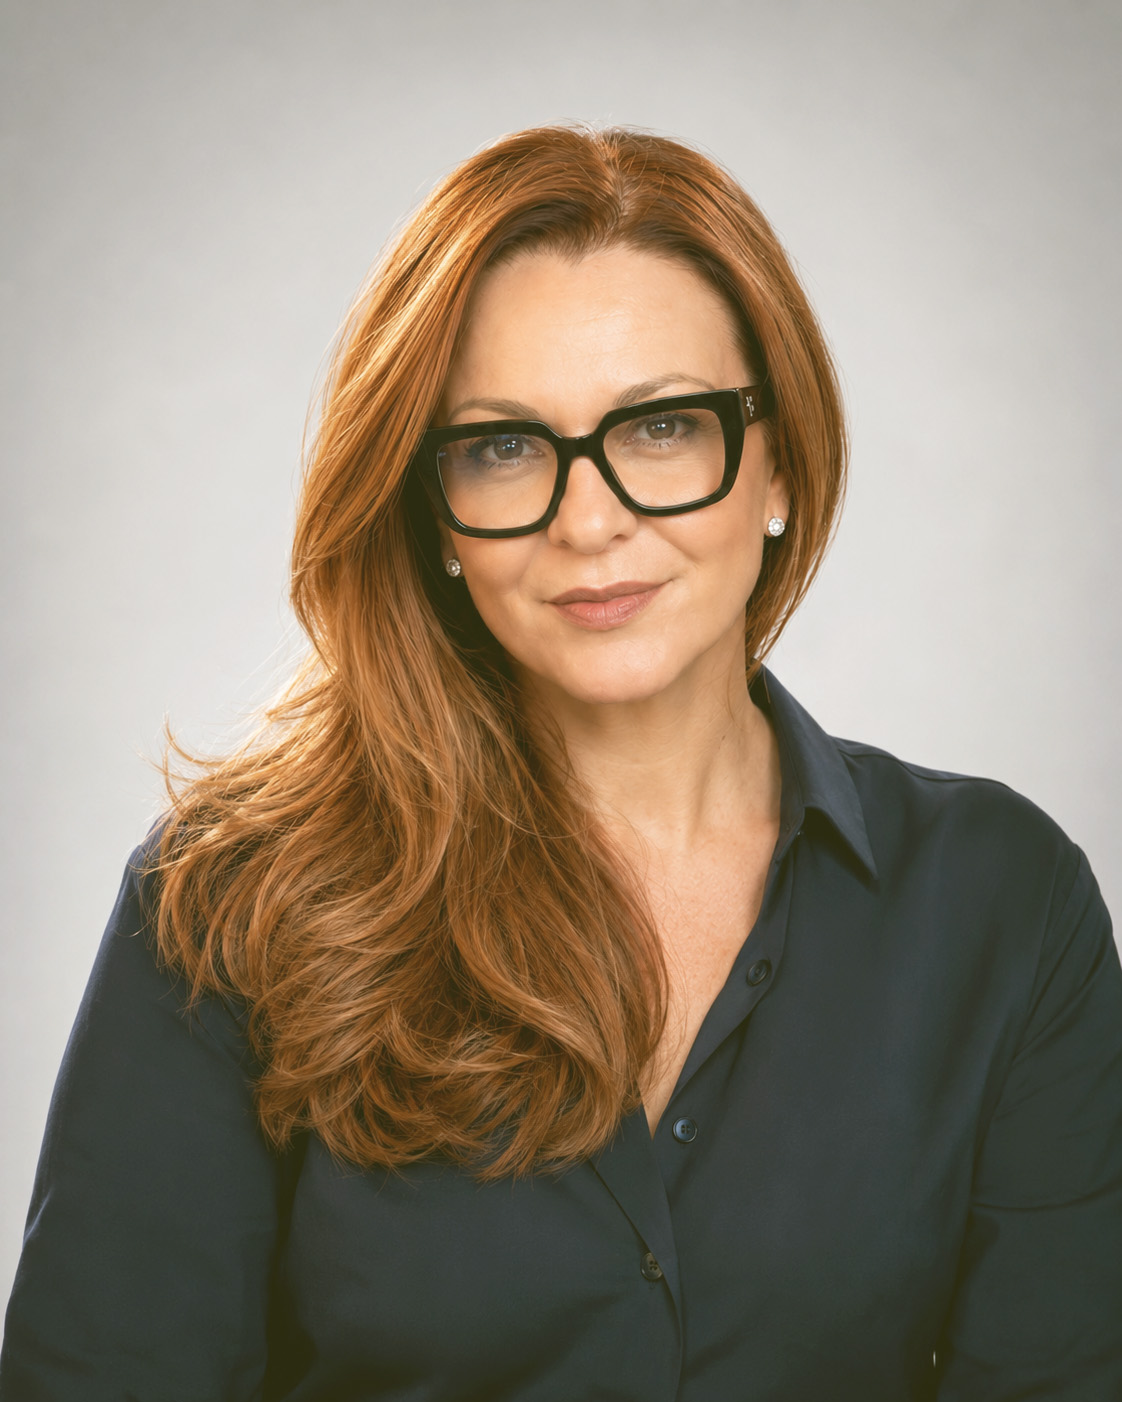
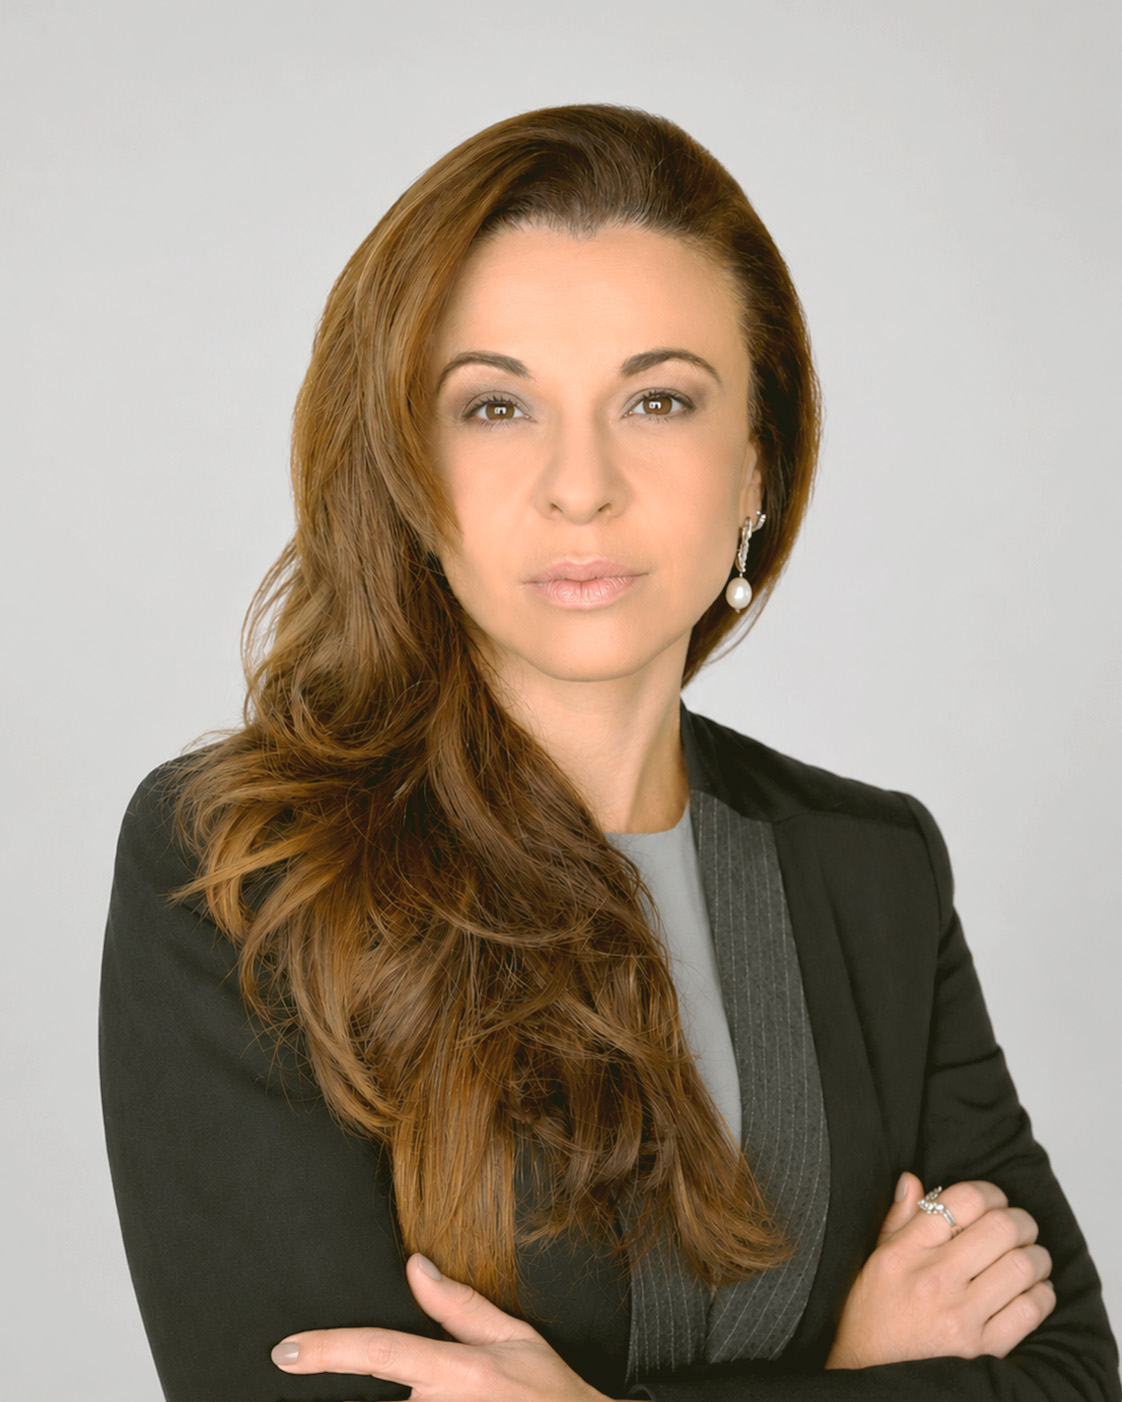
adicionando novos membros

diff --git a/src/app/sobre/equipe/page.tsx b/src/app/sobre/equipe/page.tsx
@@ -15,7 +15,9 @@ import ContactBanner from '@/components/ContactBanner'
 import portrait from '@/assets/img/patricia.jpg'
 import claudia from '@/assets/img/team/claudia.png'
 import andre from '@/assets/img/team/andre.png'
-import pessoa from '@/assets/img/team/pessoa.png'
+import luciani from '@/assets/img/team/luciani.png'
+import katlin from '@/assets/img/team/katlin.png'
+import phili from '@/assets/img/team/phili.png'
 
 export const metadata: Metadata = {
 	title: 'Equipe - Lideranças e comitê científico | Aether Global Pharma',
@@ -55,15 +57,52 @@ const realizacoes = [
 	'Liderança de operações e equipes industriais com mais de 200 profissionais em ambiente GMP'
 ]
 
-// PLACEHOLDER - nomes, titulações, instituições, bios e fotos do comitê são
-// TEMPORÁRIOS. A lista real depende do alinhamento jurídico da Patricia com
-// cada pesquisador (nome, titulação, área, instituição + autorização individual).
-const bioPlaceholder = 'Lorem ipsum dolor sit amet, consectetur adipiscing elit. Pesquisador(a) com atuação em desenvolvimento e validação de tecnologias em saúde. Nome, titulação e instituição a confirmar com o cliente.'
-
 const comite = [
-	{ name: 'Claudia Ramos', titulacao: 'PhD', area: 'Química Medicinal', instituicao: 'Instituição a confirmar', bio: bioPlaceholder, photo: claudia },
-	{ name: 'André Chaia', titulacao: 'PhD', area: 'Farmacologia', instituicao: 'Instituição a confirmar', bio: bioPlaceholder, photo: andre },
-	{ name: 'Nome a confirmar', titulacao: 'PhD', area: 'Biotecnologia', instituicao: 'Instituição a confirmar', bio: bioPlaceholder, photo: pessoa }
+	{
+		name: 'Claudia Ramos',
+		titulacao: '',
+		area: 'Scientific Advisor',
+		instituicao: '',
+		bio: 'Acredita que a inovação em saúde somente alcança impacto real quando ciência, regulação e estratégia caminham de forma integrada.<br /><br />Farmacêutica Bioquímica com mais de 20 anos de atuação em Assuntos Regulatórios e Vigilância Sanitária, desenvolveu sua trajetória em instituições como ANVISA, Organização Pan-Americana da Saúde (OPAS), Fundação para o Desenvolvimento Científico e Tecnológico em Saúde (FIOTEC), Ministério da Saúde e consultoria especializada para a indústria farmacêutica. Sua experiência concentra-se na produção de inteligência regulatória, elaboração de pareceres técnico-científicos, interpretação de marcos regulatórios, avaliação de processos administrativos e estruturação de documentos que subsidiam decisões estratégicas em ambientes regulatórios complexos. Ao longo da carreira, participou da consolidação de entendimentos regulatórios, da sistematização de conhecimento institucional e do desenvolvimento de análises técnicas envolvendo medicamentos, produtos para saúde, cosméticos, saneantes e alimentos, além de planejamento regulatório e estratégico para precificação de medicamentos novos junto à CMED (Câmara de Regulação do Mercado de Medicamentos). Tem especial interesse em iniciativas voltadas à maturação tecnológica de ativos farmacêuticos, governança científica, avaliação regulatória de tecnologias inovadoras, inteligência regulatória aplicada à inovação e construção de estratégias que aproximem universidades, centros de pesquisa, setor produtivo e autoridades sanitárias. Defende que a previsibilidade regulatória constitui um dos principais fatores para reduzir riscos tecnológicos, acelerar o desenvolvimento de ativos inovadores e ampliar as oportunidades de transferência de tecnologia.',
+		photo: claudia,
+		linked: 'https://www.linkedin.com/in/claudia-s-ramos-santos-4a9937a8/'
+	},
+	{
+		name: 'André Adriano Chaia',
+		titulacao: '',
+		area: 'Scientific Advisor',
+		instituicao: '',
+		bio: 'Farmacêutico e mestre em Microbiologia, construiu uma trajetória de mais de 26 anos dedicada a transformar complexidade regulatória em vantagem competitiva para a indústria de life sciences. Sua carreira ganhou contornos decisivos durante quase uma década na ANVISA, onde atuou como Consultor Técnico Especializado, analisando dossiês de registro, renovação e pós-registro de medicamentos novos, genéricos e similares, avaliando segurança e eficácia, e participando da elaboração e acompanhamento de novas legislações.<br /><br />Sua atuação multissetorial - indústria, consultoria, ANVISA, ICT e ambiente acadêmico - permite uma visão 360° do ciclo de vida regulatório. Como professor universitário por mais de 10 anos, formou profissionais com mentalidade crítica e alinhada às melhores práticas de qualidade, segurança e conformidade. Em paralelo, no ICT, atua para aproximar pesquisa científica, investimentos e estratégia regulatória, ajudando projetos em estágios iniciais a atravessarem o "vale da morte" da inovação e a evoluírem até se tornarem produtos e patentes com real potencial de mercado.<br /><br />Hoje, atua como parceiro estratégico para empresas que buscam navegar com segurança em um ambiente regulatório exigente, sem perder competitividade. Combina experiência adquirida na ANVISA, histórico robusto de registros bem-sucedidos e vivência em auditorias regulatórias para desenhar caminhos normativos sólidos, encurtar prazos, prevenir retrabalhos e sustentar decisões de alto impacto em portfólios farmacêuticos complexos. Seu compromisso é usar a inteligência regulatória como alavanca de negócios, destravando oportunidades e agregando valor tangível a cada projeto.',
+		photo: andre,
+		linked: 'https://www.linkedin.com/in/andr%C3%A9-adriano-chaia-a94a343a/'
+	},
+	{
+		name: 'Luciani Fagotti',
+		titulacao: '',
+		area: 'Scientific Advisor',
+		instituicao: '',
+		bio: 'Profissional com sólida experiência em Assuntos Regulatórios e Garantia da Qualidade, atua na elaboração, implementação e execução de treinamentos e procedimentos regulatórios e de qualidade.<br /><br />É fundadora da Vigidoc, empresa especializada em assessoria regulatória e qualidade para negócios que atuam em mercados regulados. Tem experiência na regularização de empresas em início de atividade, incluindo a obtenção de licenças e registros junto às autoridades sanitárias. Atua em registro de produtos perante a ANVISA, apoiando empresas no cumprimento dos requisitos regulatórios e na manutenção da conformidade ao longo do ciclo de vida dos produtos.',
+		photo: luciani,
+		linked: 'https://www.linkedin.com/in/lucianifagotti/'
+	},
+	{
+		name: 'Katlin B. Massirer',
+		titulacao: 'PhD',
+		area: 'Coordenadora CQMED',
+		instituicao: 'CQMED',
+		bio: 'Coordenadora do Centro de Química Medicinal (CQMED-Unicamp), uma Unidade Embrapii de Inovação Industrial na área de Fármacos/Biofármacos, desde 2017. Pesquisadora da área de: proteínas de ligação a RNA em doenças, química medicinal, bioinformática, e proteínas recombinantes para diagnóstico. Tem mais de 15 anos de experiência em planejamento e execução de projetos de pesquisa e inovação, com 46 publicações internacionais de alto impacto. <br /><br />Atua na coordenação de projetos internacionais na área de splicing de RNA e química medicinal, com a University of Oxford, University of California San Diego, Tubingen University e o Structural Genomics Consortium (SGC) no Canadá. Em 2025 recebeu prêmio de pesquisadora destaque da Embrapii e em 2024 recebeu honraria como profissional de destaque em pesquisa na área de saúde pela Câmara Municipal de Campinas, SP. Atua como coordenadora adjunta do CBMEG e Coordenadora da CIBIO-CBMEG.',
+		photo: katlin,
+		linked: 'https://www.linkedin.com/in/katlin-massirer-86a0779/'
+	},
+	{
+		name: 'Ronaldo Pilli',
+		titulacao: 'PhD',
+		area: 'Coordenador Química',
+		instituicao: 'CQMED',
+		bio: 'Professor na Unicamp na área de Síntese Orgânica, com ênfase em síntese assimétrica, síntese de fármacos e produtos naturais, com avaliação de atividade biológica. Coordena a área de Química do CQMED-Unicamp. Possui pedidos de patente relacionados a métodos de preparação de princípios farmacêuticos, incluindo fenidato de metila, tamoxifeno, levobupivacaína e fluoxetina.<br /><br />Ocupou posições de destaque na gestão acadêmica e científica, como diretor do Instituto de Química e Pró-Reitor de Pesquisa da Unicamp, além de atuação em instâncias estratégicas de formulação de políticas científicas no CNPq e na FAPESP, incluindo a vice-presidência do Conselho Superior da FAPESP. <br /><br />É coautor do livro-texto Substâncias Carboniladas e Derivados, referência na área de Química Orgânica, com edição nacional e internacional em inglês. <br /><br />Recebeu importantes prêmios e honrarias nacionais e internacionais, como o Prêmio Zeferino Vaz (Unicamp), a Medalha Simão Mathias (SBQ), a Medalha Israel Vargas e o BMOS Award. É membro da Academia de Ciências do Estado de São Paulo e da Academia Brasileira de Ciências.',
+		photo: phili,
+		//linked: 'https://www.linkedin.com/in/katlin-massirer-86a0779/'
+	}
 ]
 
 export default function EquipePage() {
@@ -209,10 +248,6 @@ export default function EquipePage() {
 					</div>
 
 					<Committee members={comite} />
-
-					<p className='text-16 opacity-60 mt-10 lg:mt-12'>
-						Os nomes e perfis do comitê serão divulgados após o alinhamento com cada pesquisador.
-					</p>
 
 				</div>
 			</section>

diff --git a/src/app/sobre/equipe/Committee.tsx b/src/app/sobre/equipe/Committee.tsx
@@ -5,18 +5,21 @@ import { useEffect, useState } from 'react'
 import Image, { type StaticImageData } from 'next/image'
 
 // components
+import Portal from '@/components/Utils/Portal'
 import StaggerUp from '@/components/Utils/Animations/StaggerUp'
+import Button from '@/components/Button'
 
 // svg
 import UxClose from '@/assets/svg/ux/close.svg'
 
 interface Member {
 	name: string
-	titulacao: string
-	area: string
-	instituicao: string
+	titulacao?: string
+	area?: string
+	instituicao?: string
 	bio: string
 	photo: StaticImageData
+	linked?: string
 }
 
 interface Props {
@@ -46,7 +49,12 @@ export default function Committee({ members }: Props) {
 		}
 		window.addEventListener('keydown', onKey)
 
-		return () => window.removeEventListener('keydown', onKey)
+		return () => {
+			window.removeEventListener('keydown', onKey)
+			viewport.style.overflow = ''
+			viewport.removeAttribute('data-scroll-paused')
+			document.body.classList.remove('no-scroll')
+		}
 	}, [selected])
 
 	const member = selected !== null ? members[selected] : null
@@ -54,7 +62,7 @@ export default function Committee({ members }: Props) {
 	return (
 		<>
 
-			<StaggerUp className='grid grid-cols-2 md:grid-cols-3 gap-4 lg:gap-6'>
+			<StaggerUp className='grid sm:grid-cols-2 xl:grid-cols-3 gap-4 lg:gap-6'>
 				{members.map((m, i) => (
 					<div key={i}>
 						<button
@@ -78,35 +86,35 @@ export default function Committee({ members }: Props) {
 							<h4 className='text-20 font-heading font-semibold mt-4 text-green-dark/70'>
 								{m.name}
 							</h4>
-							<p className='text-16 opacity-70 mt-1'>{m.area}</p>
+							{m.area && <p className='text-16 opacity-70 mt-1'>{m.area}</p>}
 						</button>
 					</div>
 				))}
 			</StaggerUp>
 
-			<div
-				onClick={() => setSelected(null)}
-				className={`fixed inset-0 z-99999 flex items-center justify-center p-4 transition-opacity duration-300 ${member ? 'opacity-100 visible' : 'opacity-0 invisible'}`}
-			>
-				<div className='absolute inset-0 bg-black/80' />
+			<Portal>
+				<div
+					onClick={() => setSelected(null)}
+					className={`fixed inset-0 z-99999 flex items-center justify-center p-4 transition-opacity duration-300 ${member ? 'opacity-100 visible' : 'opacity-0 invisible pointer-events-none'}`}
+				>
+					<div className='absolute inset-0 bg-black/80' />
 
-				{member && (
-					<div
-						onClick={e => e.stopPropagation()}
-						className='relative z-2 bg-white rounded-md lg:rounded-lg w-[80vw] max-w-[1500px] max-h-[88vh] overflow-y-auto'
-					>
-						<button
-							type='button'
-							onClick={() => setSelected(null)}
-							aria-label='Fechar'
-							className='absolute z-2 top-5 right-5 md:top-8 md:right-8 flex items-center justify-center w-6 h-6 cursor-pointer hover:rotate-180 transition-transform duration-300'
+					{member && (
+						<div
+							onClick={e => e.stopPropagation()}
+							className='relative z-2 bg-white rounded-md lg:rounded-lg w-[calc(100vw-2rem)] sm:w-[80vw] max-w-375 max-h-[calc(100svh-2rem)] sm:max-h-[88vh] overflow-y-auto overscroll-contain md:overflow-hidden grid md:grid-cols-2 md:h-[88vh]'
 						>
-							<UxClose className='w-full h-full' />
-						</button>
+							<button
+								type='button'
+								onClick={() => setSelected(null)}
+								aria-label='Fechar'
+								className='absolute z-2 top-5 right-5 md:top-5 md:right-5 flex items-center justify-center w-4 h-4 cursor-pointer hover:rotate-180 transition-transform duration-300 max-md:text-white'
+							>
+								<UxClose className='w-full h-full' />
+							</button>
 
-						<div className='grid md:grid-cols-2'>
+							<div className='relative aspect-square md:aspect-auto md:h-full'>
 
-							<div className='relative aspect-square md:aspect-auto md:min-h-[65vh]'>
 								<Image
 									src={member.photo}
 									alt={member.name}
@@ -115,30 +123,44 @@ export default function Committee({ members }: Props) {
 									className='cover'
 									sizes='(max-width: 768px) 80vw, 40vw'
 								/>
+
+								{member.linked && (
+									<div className='absolute z-2 bottom-4 left-4 lg:bottom-6 lg:left-6'>
+										<Button
+											style='light'
+											href={member.linked}
+											text='LinkedIn'
+											icon='linkedin'
+											target='_blank'
+											rel='noopener noreferrer'
+											aria-label={`Perfil de ${member.name} no LinkedIn`}
+										/>
+									</div>
+								)}
 							</div>
 
-							<div className='flex flex-col justify-center p-10 md:p-14 lg:p-[4vw]'>
+							<div className='md:overflow-y-auto md:overscroll-contain md:h-full px-6 py-8 sm:p-10 md:p-14 lg:p-[4vw]'>
 
-								<h3 className='text-40 lg:text-60 font-heading font-semibold text-green-dark/70 leading-[1.05]!'>
+								<h3 className='text-3xl lg:text-4xl font-heading font-semibold text-green-dark/70 leading-[1.05]!'>
 									{member.name}
 								</h3>
 
 								<div className='flex flex-col gap-2 mt-6 lg:mt-8 text-18'>
-									<span><span className='opacity-50'>Titulação:</span> {member.titulacao}</span>
-									<span><span className='opacity-50'>Área:</span> {member.area}</span>
-									<span><span className='opacity-50'>Instituição:</span> {member.instituicao}</span>
+									{member.titulacao && <span><span className='opacity-50'>Titulação:</span> {member.titulacao}</span>}
+									{member.area && <span><span className='opacity-50'>Área:</span> {member.area}</span>}
+									{member.instituicao && <span><span className='opacity-50'>Instituição:</span> {member.instituicao}</span>}
 								</div>
 
-								<p className='text-18 leading-relaxed mt-8 lg:mt-10 opacity-80 lg:pr-[2vw]'>
-									{member.bio}
-								</p>
+								<p
+									className='text-18 leading-relaxed mt-8 lg:mt-10 opacity-80 lg:pr-[2vw]'
+									dangerouslySetInnerHTML={{ __html: member.bio }}
+								/>
 
 							</div>
-
 						</div>
-					</div>
-				)}
-			</div>
+					)}
+				</div>
+			</Portal>
 
 		</>
 	)

diff --git a/src/components/Utils/SmoothScroller/index.tsx b/src/components/Utils/SmoothScroller/index.tsx
@@ -100,10 +100,11 @@ export default function SmoothScroller({
         }
 
         const handleWheel = (e: WheelEvent) => {
-            e.preventDefault()
-
-            // pause smooth scroll when data-scroll-paused is set (e.g. menu open)
+            // pause smooth scroll when data-scroll-paused is set (e.g. menu/modal open)
+            // must return BEFORE preventDefault so nested overflow-y-auto can scroll
             if (viewport.hasAttribute('data-scroll-paused')) return
+
+            e.preventDefault()
 
             // update target scroll position
             state.targetScroll += e.deltaY
